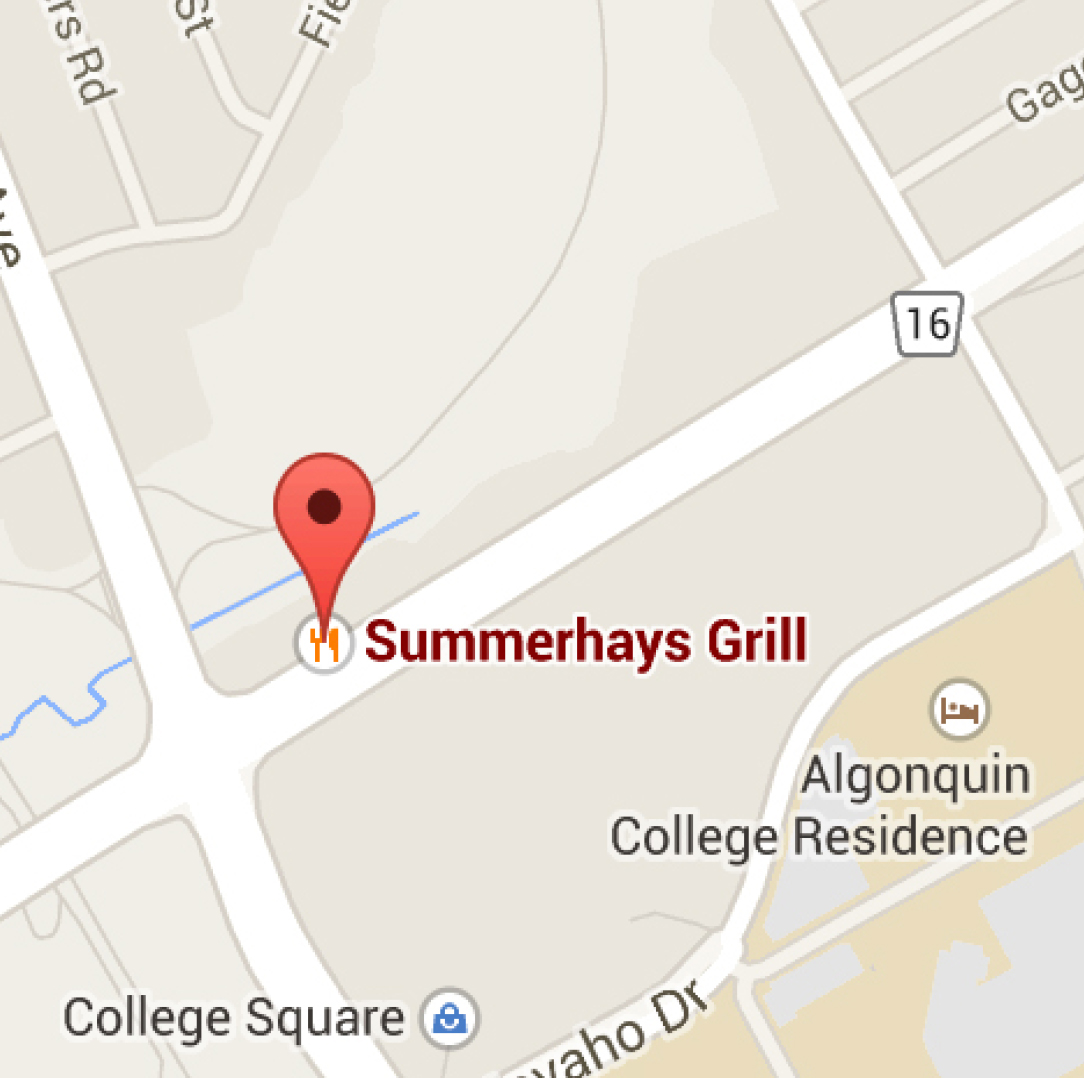
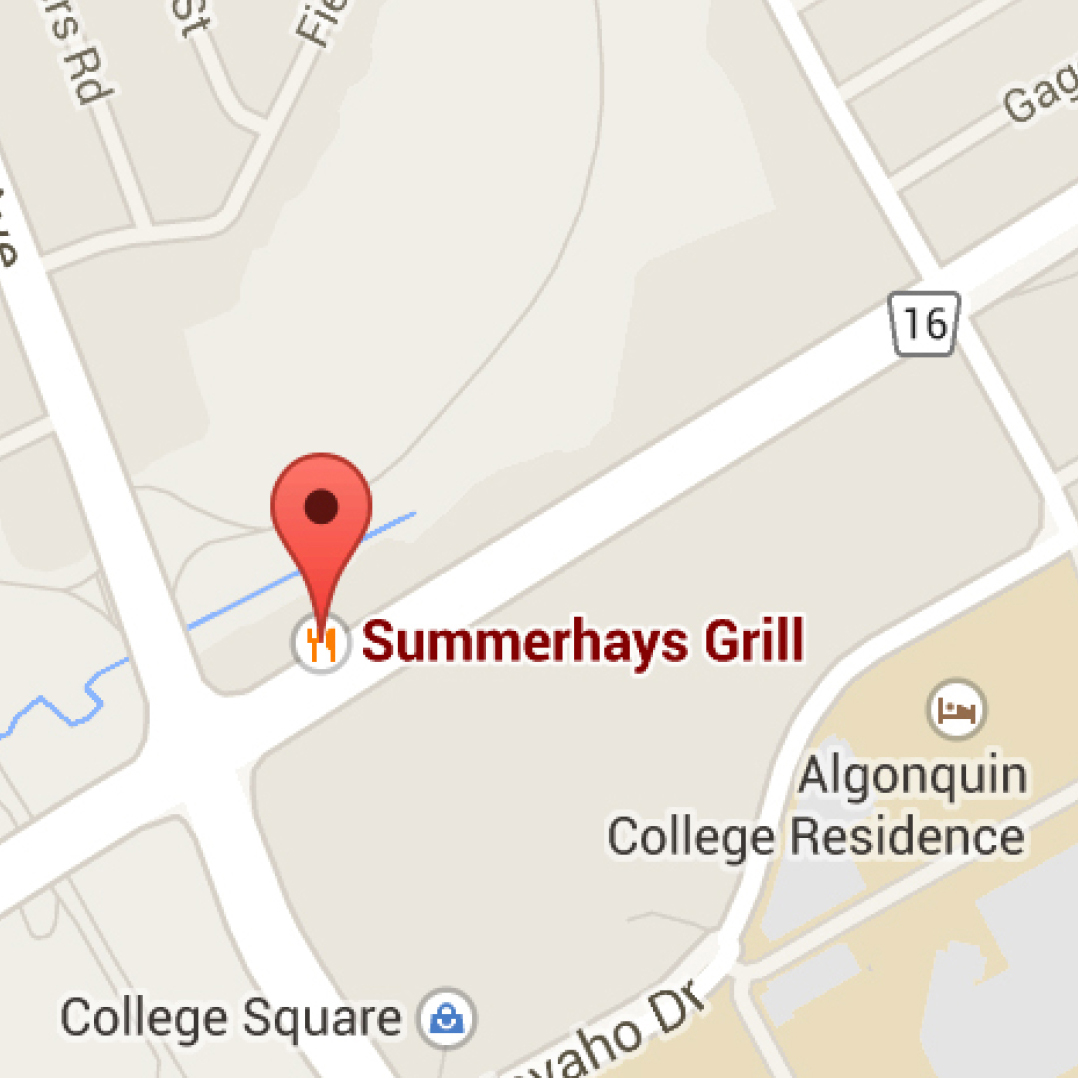
Added “hours” image and info

diff --git a/index.html b/index.html
@@ -20,6 +20,20 @@
 	<li><a href="#contact">Contact</a></li>
 </ol>
 </nav>
-<img src="images/little_map.jpg" class="little_map" alt="">
+<div>
+	<a href=https://www.google.ca/maps/place/Summerhays+Grill/@45.352072,-75.761773,3a,75y,337.21h,90t/data=!3m4!1e1!3m2!1sgWRGgWBVTuty73lnZmjSfg!2e0!4m2!3m1!1s0x4cce0720e6140d51:0x21f14873c90c9328!6m1!1e1>
+		<img src="images/little_map.jpg" class="little_map" alt="">
+	</a>
+</div>
+
+<div>
+	<img src="images/open_hours.jpg" class="open_hours" alt="">
+<dl class="hours">
+	<p>SUN ......................... 8am-12am</p>
+	<p>MON-THU ................ 7am-1am</p>
+	<p>FRI ............................. 7am-2am</p>
+	<p>SAT ............................ 8am-1am</p>
+</dl>
+</div>
 </main>
 </html>

diff --git a/css/main.css b/css/main.css
@@ -42,4 +42,19 @@ a {
 
 .little_map {
 	width: 50%;
+	float: left;
+}
+
+.open_hours {
+	width: 50%;
+}
+
+.hours {
+	margin-left: 58%;
+	margin-top: -27%;
+	color: white;
+}
+
+dd {
+	display: inline;
 }
